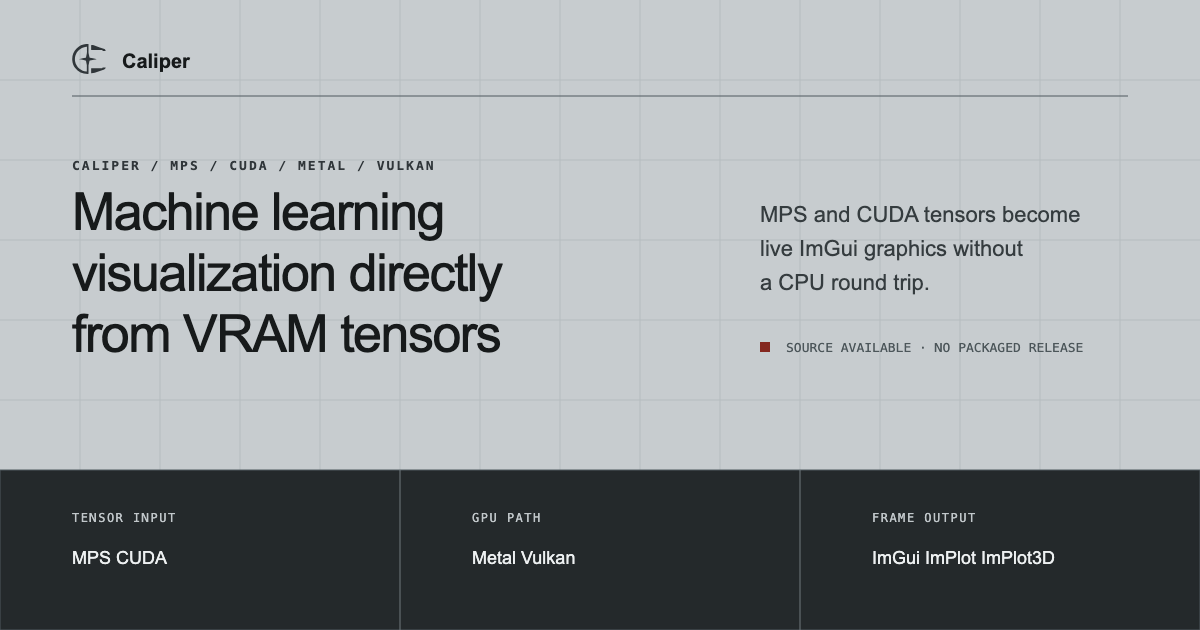
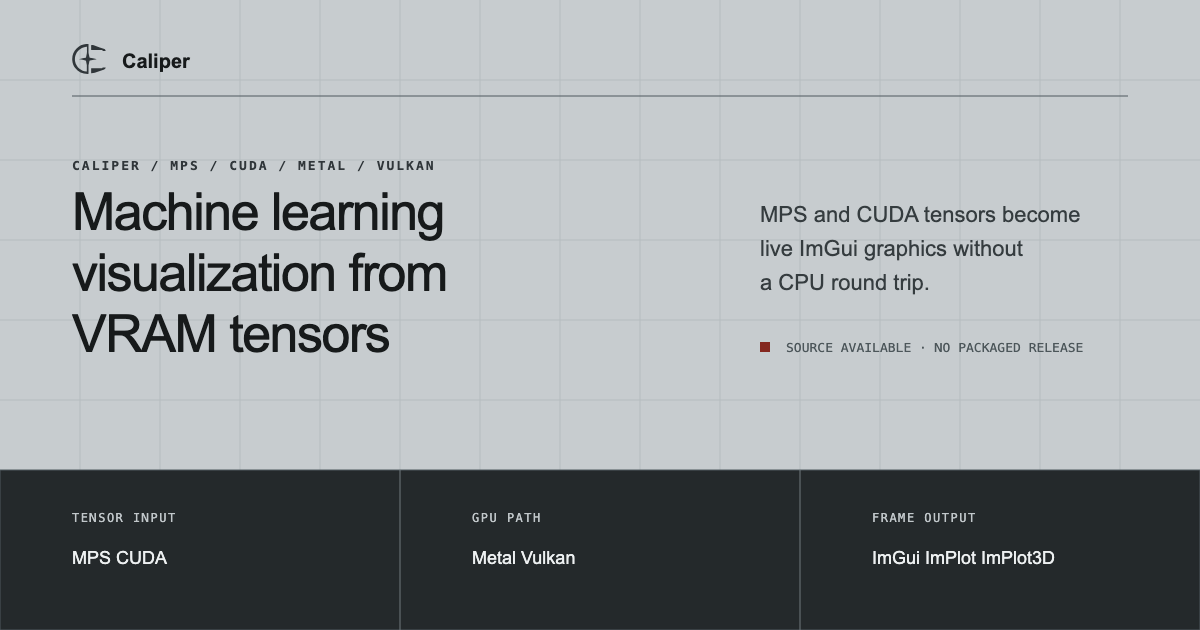
Simplify Caliper headline

Changed region(s): [[0.0617, 0.4825, 0.4317, 0.573], [0.2775, 0.3921, 0.4317, 0.4825]]

diff --git a/site/index.html b/site/index.html
@@ -3,7 +3,7 @@
 <head>
   <meta charset="utf-8">
   <meta name="viewport" content="width=device-width, initial-scale=1">
-  <title>Caliper — Machine learning visualization directly from VRAM tensors</title>
+  <title>Caliper — Machine learning visualization from VRAM tensors</title>
   <meta name="description" content="Caliper renders MPS and CUDA tensors as live ImGui graphics without CPU staging on its native Metal and Vulkan paths.">
   <meta name="theme-color" content="#c7cccf">
   <meta name="color-scheme" content="light">
@@ -13,7 +13,7 @@
 
   <meta property="og:type" content="website">
   <meta property="og:site_name" content="Caliper">
-  <meta property="og:title" content="Caliper — Machine learning visualization directly from VRAM tensors">
+  <meta property="og:title" content="Caliper — Machine learning visualization from VRAM tensors">
   <meta property="og:description" content="Render MPS and CUDA tensors as live ImGui graphics without a CPU round trip.">
   <meta property="og:url" content="https://ahmedkhan-gh.github.io/caliper/">
   <meta property="og:image" content="https://ahmedkhan-gh.github.io/caliper/assets/og.png">
@@ -42,7 +42,7 @@
     <section class="home-hero container" id="hero">
       <div>
         <p class="section-label">Caliper / C++ / Metal / Vulkan</p>
-        <h1>Machine learning visualization directly from VRAM tensors</h1>
+        <h1>Machine learning visualization from VRAM tensors</h1>
       </div>
       <div class="hero-summary">
         <p>Caliper turns MPS and CUDA tensors into live ImGui graphics. Its Metal and Vulkan paths keep dense image and geometry views off the CPU staging path.</p>
